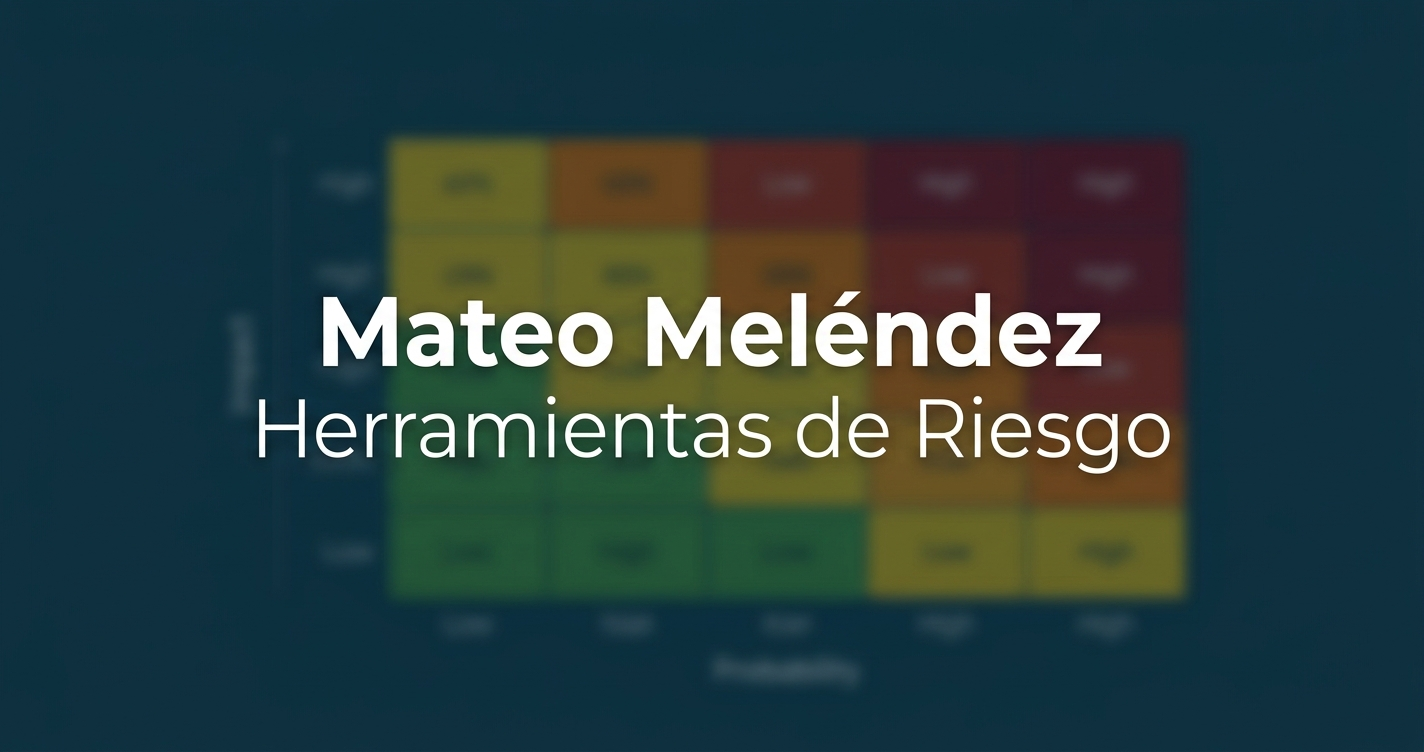
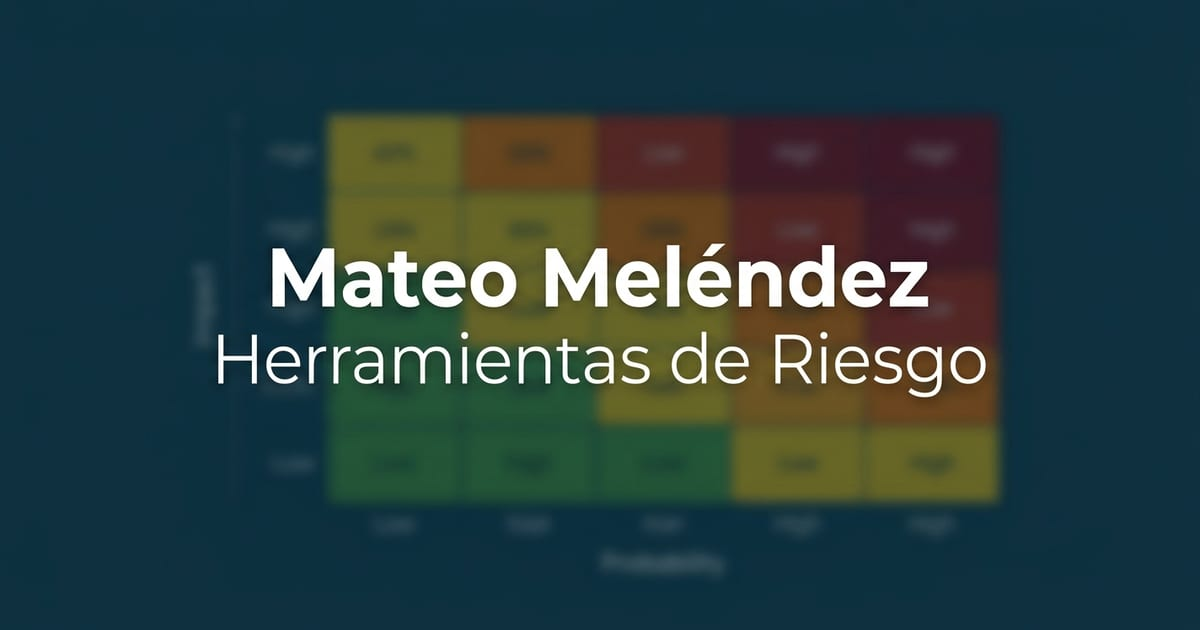
Enlace de regreso, salto al contenido e imagen social optimizada
- Las cinco herramientas muestran "← Portafolio" cuando se abren por su
  URL directa. Dentro del visor modal no se crea, porque ahi sobraria.
- Enlace de salto al contenido en ambas portadas, visible solo al
  tabular: quien navega con teclado ya no recorre todo el encabezado.
- Imagen social: 1424x752 y 401 KB -> 1200x630 y 32 KB (92% menos), que
  es la proporcion que piden LinkedIn y WhatsApp. Composicion sin cambios.

diff --git a/herramientas/Matriz_Riesgos_Demo.html b/herramientas/Matriz_Riesgos_Demo.html
@@ -74,6 +74,11 @@ footer .wrap2{max-width:1180px;margin:0 auto;}
 .toast{position:fixed;top:70px;right:20px;background:var(--acc-dk);color:#fff;padding:11px 16px;
   border-radius:6px;font-size:13px;font-weight:600;box-shadow:0 6px 18px rgba(0,0,0,.2);z-index:99;
   transition:opacity .3s;}
+.volver{margin-left:auto;color:#fff;opacity:.78;text-decoration:none;font-size:12px;font-weight:600;
+  padding:5px 10px;border:1px solid rgba(255,255,255,.28);border-radius:6px;white-space:nowrap;
+  transition:opacity .2s ease,border-color .2s ease;}
+.volver:hover{opacity:1;border-color:var(--acc);}
+.volver:focus-visible{outline:2px solid var(--acc);outline-offset:2px;}
 </style>
 
 <div class="app-header">
@@ -207,4 +212,18 @@ document.addEventListener('keydown',function(e){
   if(e.key==='Enter' && document.activeElement && document.activeElement.id==='nom') agregar();
 });
 llenarSelects(); pintar();
+</script>
+<script>
+/* Enlace de regreso al portafolio. Solo aparece si la herramienta se abrio
+   por su URL directa: dentro del visor modal del portafolio sobraria. */
+(function () {
+  if (window.self !== window.top) return;
+  var h = document.querySelector('.app-header');
+  if (!h) return;
+  var a = document.createElement('a');
+  a.className = 'volver';
+  a.href = '../index.html';
+  a.textContent = '\u2190 Portafolio';
+  h.appendChild(a);
+})();
 </script>

diff --git a/herramientas/Apetito_Demo.html b/herramientas/Apetito_Demo.html
@@ -63,6 +63,11 @@ label{display:block;font-size:11.5px;font-weight:700;color:var(--tx-2);margin-bo
 footer{background:var(--ink);color:rgba(255,255,255,.72);padding:20px 24px;font-size:12.5px;line-height:1.6;}
 footer b{color:#fff;}
 footer .wrap2{max-width:1000px;margin:0 auto;}
+.volver{margin-left:auto;color:#fff;opacity:.78;text-decoration:none;font-size:12px;font-weight:600;
+  padding:5px 10px;border:1px solid rgba(255,255,255,.28);border-radius:6px;white-space:nowrap;
+  transition:opacity .2s ease,border-color .2s ease;}
+.volver:hover{opacity:1;border-color:var(--acc);}
+.volver:focus-visible{outline:2px solid var(--acc);outline-offset:2px;}
 </style>
 
 <div class="app-header">
@@ -187,4 +192,18 @@ function calcular(){
     (Math.round(p*10)/10)+'%</b> del límite aprobado.<br><span style="font-weight:400">'+escH(acc)+'</span></div>';
 }
 calcular();
+</script>
+<script>
+/* Enlace de regreso al portafolio. Solo aparece si la herramienta se abrio
+   por su URL directa: dentro del visor modal del portafolio sobraria. */
+(function () {
+  if (window.self !== window.top) return;
+  var h = document.querySelector('.app-header');
+  if (!h) return;
+  var a = document.createElement('a');
+  a.className = 'volver';
+  a.href = '../index.html';
+  a.textContent = '\u2190 Portafolio';
+  h.appendChild(a);
+})();
 </script>

diff --git a/index.html b/index.html
@@ -114,6 +114,19 @@
       color: var(--text-muted);
     }
     .demo-note strong { color: var(--ink); }
+    .skip-link {
+      position: absolute;
+      left: -9999px;
+      top: 0;
+      z-index: 200;
+      background-color: var(--acc);
+      color: var(--ink);
+      padding: 0.7rem 1.1rem;
+      border-radius: 0 0 8px 0;
+      font-weight: 700;
+      text-decoration: none;
+    }
+    .skip-link:focus { left: 0; }
     .lang-switch {
       display: flex;
       gap: 0.25rem;
@@ -517,6 +530,7 @@
   </style>
 </head>
 <body>
+  <a class="skip-link" href="#contenido">Saltar al contenido</a>
 
   <!-- Header -->
   <header>
@@ -542,7 +556,7 @@
   </section>
 
   <!-- Contenido principal -->
-  <main class="container">
+  <main class="container" id="contenido">
     <!-- Presentación -->
     <section class="about">
       <p>Soy consultor de riesgos empresariales en Marsh. Antes pas&eacute; cinco a&ntilde;os en Deloitte como auditor interno senior, donde ejecut&eacute; m&aacute;s de diez auditor&iacute;as y lider&eacute; el testeo de controles bajo la Ley Sarbanes-Oxley. Hoy dise&ntilde;o metodolog&iacute;as, pol&iacute;ticas e indicadores clave de riesgo para empresas de varios sectores y tama&ntilde;os, y facilito los talleres donde esos riesgos se discuten con los comit&eacute;s directivos.</p>

diff --git a/herramientas/RiskVantage_Demo.html b/herramientas/RiskVantage_Demo.html
@@ -53,6 +53,11 @@ footer .wrap2{max-width:1180px;margin:0 auto;}
 .toast{position:fixed;top:70px;right:20px;background:var(--acc-dk);color:#fff;padding:11px 16px;
   border-radius:6px;font-size:13px;font-weight:600;box-shadow:0 6px 18px rgba(0,0,0,.2);z-index:99;
   transition:opacity .3s;}
+.volver{margin-left:auto;color:#fff;opacity:.78;text-decoration:none;font-size:12px;font-weight:600;
+  padding:5px 10px;border:1px solid rgba(255,255,255,.28);border-radius:6px;white-space:nowrap;
+  transition:opacity .2s ease,border-color .2s ease;}
+.volver:hover{opacity:1;border-color:var(--acc);}
+.volver:focus-visible{outline:2px solid var(--acc);outline-offset:2px;}
 </style>
 
 <div class="app-header">
@@ -205,4 +210,18 @@ document.addEventListener('keydown',function(e){
   else if(a.id==='inConse') add('k');
 });
 pintar();
+</script>
+<script>
+/* Enlace de regreso al portafolio. Solo aparece si la herramienta se abrio
+   por su URL directa: dentro del visor modal del portafolio sobraria. */
+(function () {
+  if (window.self !== window.top) return;
+  var h = document.querySelector('.app-header');
+  if (!h) return;
+  var a = document.createElement('a');
+  a.className = 'volver';
+  a.href = '../index.html';
+  a.textContent = '\u2190 Portafolio';
+  h.appendChild(a);
+})();
 </script>

diff --git a/herramientas/Consolidador_Demo.html b/herramientas/Consolidador_Demo.html
@@ -55,6 +55,11 @@ tr:last-child td{border-bottom:none;}
 footer{background:var(--ink);color:rgba(255,255,255,.72);padding:20px 24px;font-size:12.5px;line-height:1.6;}
 footer b{color:#fff;}
 footer .wrap2{max-width:1180px;margin:0 auto;}
+.volver{margin-left:auto;color:#fff;opacity:.78;text-decoration:none;font-size:12px;font-weight:600;
+  padding:5px 10px;border:1px solid rgba(255,255,255,.28);border-radius:6px;white-space:nowrap;
+  transition:opacity .2s ease,border-color .2s ease;}
+.volver:hover{opacity:1;border-color:var(--acc);}
+.volver:focus-visible{outline:2px solid var(--acc);outline-offset:2px;}
 </style>
 
 <div class="app-header">
@@ -181,4 +186,18 @@ function consolidar(){
   var b=document.getElementById('btn'); b.disabled=true; b.textContent='✓ Consolidado';
 }
 pintarFuentes();
+</script>
+<script>
+/* Enlace de regreso al portafolio. Solo aparece si la herramienta se abrio
+   por su URL directa: dentro del visor modal del portafolio sobraria. */
+(function () {
+  if (window.self !== window.top) return;
+  var h = document.querySelector('.app-header');
+  if (!h) return;
+  var a = document.createElement('a');
+  a.className = 'volver';
+  a.href = '../index.html';
+  a.textContent = '\u2190 Portafolio';
+  h.appendChild(a);
+})();
 </script>

diff --git a/index-en.html b/index-en.html
@@ -114,6 +114,19 @@
       color: var(--text-muted);
     }
     .demo-note strong { color: var(--ink); }
+    .skip-link {
+      position: absolute;
+      left: -9999px;
+      top: 0;
+      z-index: 200;
+      background-color: var(--acc);
+      color: var(--ink);
+      padding: 0.7rem 1.1rem;
+      border-radius: 0 0 8px 0;
+      font-weight: 700;
+      text-decoration: none;
+    }
+    .skip-link:focus { left: 0; }
     .lang-switch {
       display: flex;
       gap: 0.25rem;
@@ -517,6 +530,7 @@
   </style>
 </head>
 <body>
+  <a class="skip-link" href="#contenido">Skip to content</a>
 
   <!-- Header -->
   <header>
@@ -542,7 +556,7 @@
   </section>
 
   <!-- Contenido principal -->
-  <main class="container">
+  <main class="container" id="contenido">
     <!-- Presentación -->
     <section class="about">
       <p>I am an enterprise risk consultant at Marsh. Before that I spent five years at Deloitte as a senior internal auditor, where I ran more than ten internal audits and led control testing under the Sarbanes-Oxley Act. Today I design risk methodologies, policies and key risk indicators for companies across sectors and sizes, and I facilitate the workshops where those risks get discussed with executive committees.</p>

diff --git a/herramientas/Papeles_Demo.html b/herramientas/Papeles_Demo.html
@@ -57,6 +57,11 @@ button{font-family:inherit;}
 footer{background:var(--ink);color:rgba(255,255,255,.72);padding:20px 24px;font-size:12.5px;line-height:1.6;}
 footer b{color:#fff;}
 footer .wrap2{max-width:1000px;margin:0 auto;}
+.volver{margin-left:auto;color:#fff;opacity:.78;text-decoration:none;font-size:12px;font-weight:600;
+  padding:5px 10px;border:1px solid rgba(255,255,255,.28);border-radius:6px;white-space:nowrap;
+  transition:opacity .2s ease,border-color .2s ease;}
+.volver:hover{opacity:1;border-color:var(--acc);}
+.volver:focus-visible{outline:2px solid var(--acc);outline-offset:2px;}
 </style>
 
 <div class="app-header">
@@ -204,4 +209,18 @@ function pintarTabla(){
   document.getElementById('tabla').innerHTML=h+'</tbody>';
 }
 llenarTol(); calcular();
+</script>
+<script>
+/* Enlace de regreso al portafolio. Solo aparece si la herramienta se abrio
+   por su URL directa: dentro del visor modal del portafolio sobraria. */
+(function () {
+  if (window.self !== window.top) return;
+  var h = document.querySelector('.app-header');
+  if (!h) return;
+  var a = document.createElement('a');
+  a.className = 'volver';
+  a.href = '../index.html';
+  a.textContent = '\u2190 Portafolio';
+  h.appendChild(a);
+})();
 </script>
